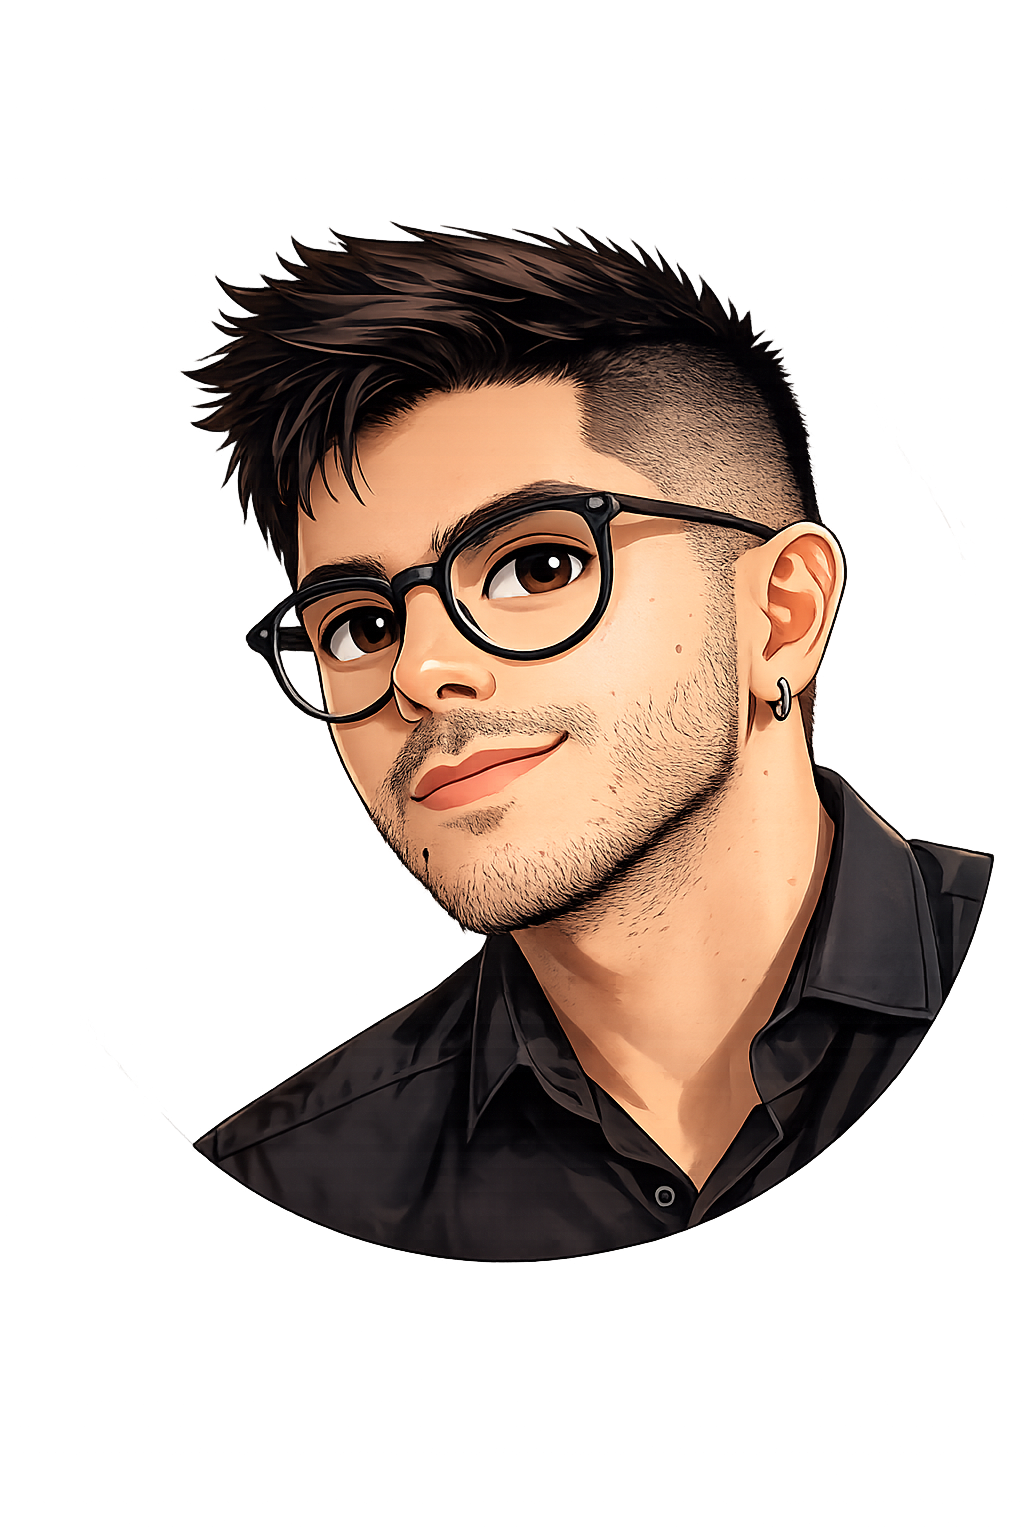
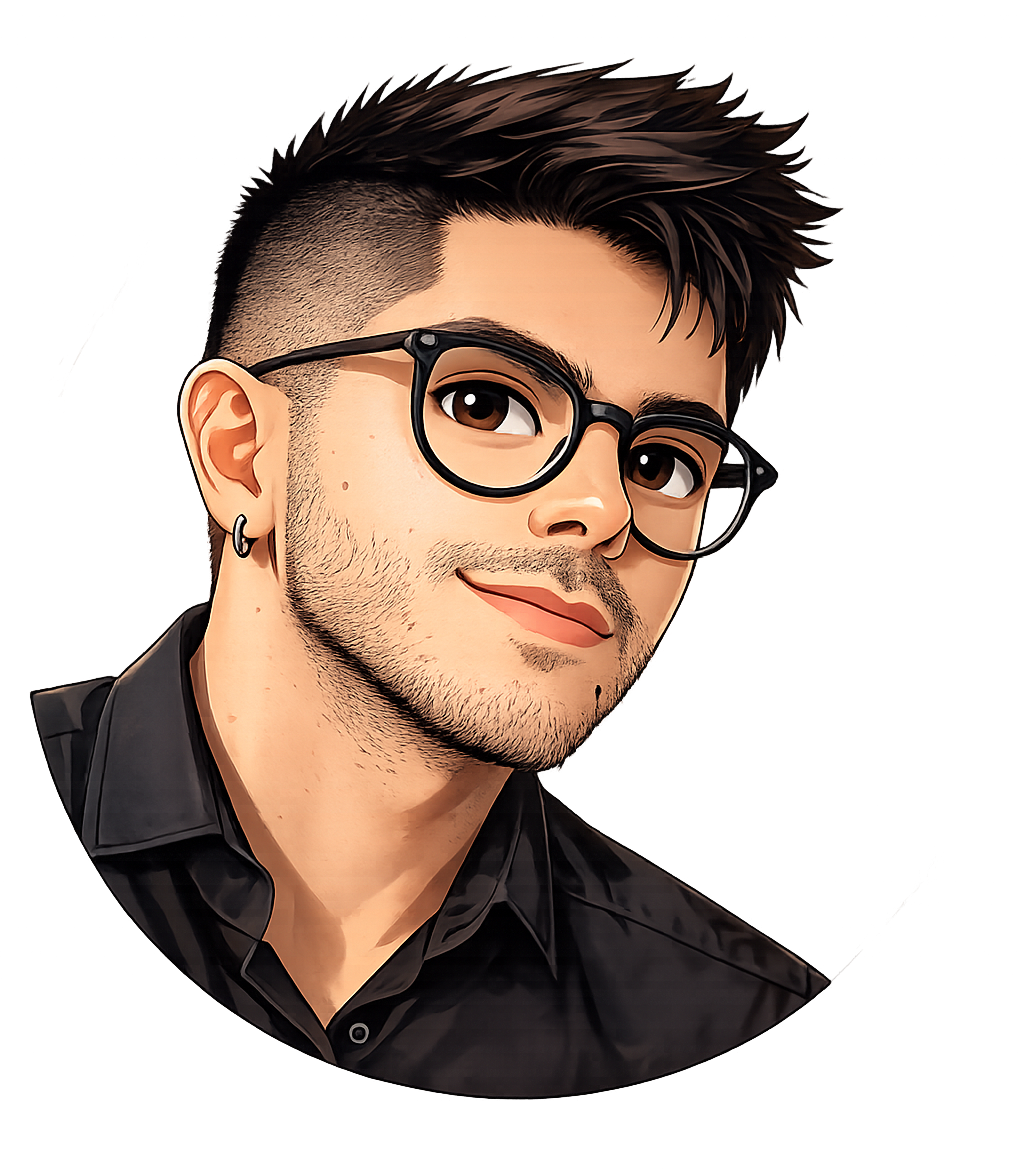
actualice

diff --git a/css/styles.css b/css/styles.css
@@ -22,6 +22,7 @@ body {
     color: #fff;                        /* texto blanco por defecto */
     margin: 0;    
     padding: 0;
+    font-size: 18px;
 }
 
 
@@ -543,7 +544,7 @@ body {
 
 .about-single {
   padding: 5rem 2rem;
-  max-width: 800px;      /* más estrecho para que se lea cómodo */
+  max-width: 1200px;      /* más estrecho para que se lea cómodo */
   margin: 0 auto;
   width: 100%;
 }
@@ -566,7 +567,7 @@ body {
 
 .section-title {
   font-family: 'Syne', sans-serif;
-  font-size: 2.2rem;
+  font-size: 3rem;
   font-weight: 700;
   color: #fff;
   letter-spacing: -0.02em;
@@ -576,15 +577,15 @@ body {
 /* Bloque conversacional: usa flex para alinear avatar y burbuja */
 .conversation-block {
   display: flex;
-  gap: 1.5rem;
+  gap: 2rem;
   align-items: flex-start;    /* la burbuja empieza arriba junto al avatar */
   flex-wrap: wrap;            /* si no cabe, se apila en móvil */
 }
 
 /* Avatar: circular, tamaño mediano */
 .avatar-comment {
-  width: 80px;
-  height: 80px;
+  width: 120px;
+  height: 120px;
   border-radius: 50%;
   object-fit: cover;
   border: 2px solid rgba(139, 92, 246, 0.5);
@@ -600,15 +601,15 @@ body {
 
 /* Placeholder por si no hay imagen */
 .avatar-placeholder {
-  width: 80px;
-  height: 80px;
+  width: 120px;
+  height: 120px;
   border-radius: 50%;
   background: #1e1e2e;
   display: flex;
   align-items: center;
   justify-content: center;
   font-family: 'Syne', sans-serif;
-  font-size: 2rem;
+  font-size: 3rem;
   font-weight: 800;
   color: #a78bfa;
   border: 2px solid rgba(139, 92, 246, 0.5);
@@ -624,7 +625,7 @@ body {
   backdrop-filter: blur(2px);
   border-radius: 24px;
   border-top-left-radius: 8px;  /* le da forma de burbuja de chat */
-  padding: 1.5rem;
+  padding: 2rem;
   border: 1px solid rgba(139, 92, 246, 0.2);
   box-shadow: 0 4px 15px rgba(0, 0, 0, 0.2);
   position: relative;
@@ -649,7 +650,7 @@ body {
 
 /* Párrafos dentro de la burbuja */
 .comment-bubble p {
-  font-size: 15px;
+  font-size: 1.1rem;
   line-height: 1.6;
   color: rgba(255, 255, 255, 0.85);
   margin-bottom: 1rem;
@@ -660,6 +661,7 @@ body {
 }
 
 .highlight {
+  font-size: inherit;
   color: #a78bfa;
   font-weight: 500;
 }
@@ -667,12 +669,12 @@ body {
 /* Pie de la burbuja (firma o cita) */
 .bubble-footer {
   margin-top: 1rem;
-  font-size: 11px;
+  font-size: 0.85rem;
   letter-spacing: 0.05em;
   color: rgba(139, 92, 246, 0.6);
   text-align: right;
   border-top: 1px dashed rgba(139, 92, 246, 0.3);
-  padding-top: 0.75rem;
+  padding-top: 1rem;
 }
 
 /* 
@@ -682,7 +684,7 @@ body {
 */
 @media (max-width: 600px) {
   .about-single {
-    padding: 3rem 1.5rem;
+    padding: 4rem 1.5rem;
   }
 
   .conversation-block {
@@ -699,10 +701,10 @@ body {
 
   /* En móvil, la colita de la burbuja apunta hacia arriba (al avatar) */
   .comment-bubble::before {
-    top: -12px;
-    left: 50%;
+    left: -12px;
+    top: 28px;
     transform: translateX(-50%);
-    border-width: 0 8px 12px 8px;
+    border-width: 10px 14px 10px 0;
     border-color: transparent transparent rgba(139, 92, 246, 0.3) transparent;
   }
 
